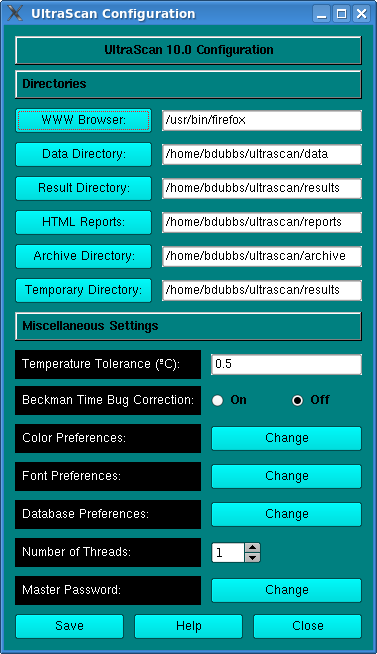
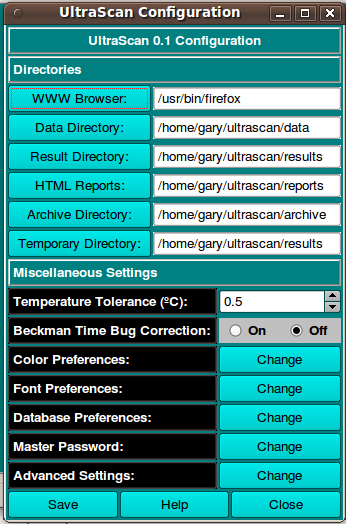
New advanced dialog in us_config and new us_settings methods for debug_text and advanced level
git-svn-id: svn://bcf2.uthscsa.edu/ultrascan3/trunk@506 0b344138-67e3-44e0-be2b-e1ba3e4701c6

diff --git a/programs/us_config/us_advanced.cpp b/programs/us_config/us_advanced.cpp
@@ -1,0 +1,152 @@
+//! \file us_advanced.cpp
+#include "us_advanced.h"
+#include "us_gui_settings.h"
+#include "us_settings.h"
+#include "us_help.h"
+
+US_Advanced::US_Advanced( QWidget* w, Qt::WindowFlags flags ) 
+  : US_Widgets( true, w, flags )
+{
+  // Frame layout
+  setPalette( US_GuiSettings::frameColor() );
+
+  setWindowTitle( "Advanced Settings" );
+  setAttribute( Qt::WA_DeleteOnClose );
+
+  // Set up the database list window
+  QLabel* banner = us_banner( tr( "Debug Text List" ) );
+
+  QBoxLayout* topbox = new QVBoxLayout( this );
+  topbox->addWidget( banner );
+  topbox->setSpacing( 2 );
+
+  te_dbgtext = new QTextEdit();
+  te_dbgtext->setPalette(  US_GuiSettings::editColor() );
+  te_dbgtext->setFont(     QFont( US_GuiSettings::fontFamily(),
+                                  US_GuiSettings::fontSize() ) );
+  te_dbgtext->setReadOnly( false );
+
+  topbox->addWidget( te_dbgtext );
+
+  // Detail info
+  QLabel* info = us_banner( tr( "Advanced Counters" ) );
+  topbox->addWidget( info );
+
+  int row = 0;
+  QGridLayout* details = new QGridLayout();
+  
+  // Row 1
+  QLabel* lb_debug    = us_label( "Debug Level:" );
+  details->addWidget( lb_debug,    row,   0, 1, 3 );
+
+  sb_debug            = new QSpinBox;
+  sb_debug->setRange( 0, 10 );
+  sb_debug->setValue( 0 );
+  sb_debug->setPalette( US_GuiSettings::editColor() );
+  sb_debug->setFont( QFont( US_GuiSettings::fontFamily(),
+                            US_GuiSettings::fontSize() ) );
+  details->addWidget( sb_debug,    row++, 3, 1, 1 );
+
+  // Row 2
+  QLabel* lb_advanced = us_label( "Advanced Level:" );
+  details->addWidget( lb_advanced, row,   0, 1, 3 );
+
+  sb_advanced         = new QSpinBox;
+  sb_advanced->setRange( 0, 10 );
+  sb_advanced->setValue( 0 );
+  sb_advanced->setPalette( US_GuiSettings::editColor() );
+  sb_advanced->setFont( QFont( US_GuiSettings::fontFamily(),
+                               US_GuiSettings::fontSize() ) );
+  details->addWidget( sb_advanced, row++, 3, 1, 1 );
+
+  // Row 3
+  QLabel* lb_threads  = us_label( "Number of Threads:" );
+  details->addWidget( lb_threads,  row,   0, 1, 3 );
+
+  sb_threads          = new QSpinBox;
+  sb_threads->setRange( 1, 10 );
+  sb_threads->setValue( 1 );
+  sb_threads->setPalette( US_GuiSettings::editColor() );
+  sb_threads->setFont( QFont( US_GuiSettings::fontFamily(),
+                              US_GuiSettings::fontSize() ) );
+  details->addWidget( sb_threads,  row++, 3, 1, 1 );
+
+  topbox->addLayout( details );
+
+  //Pushbuttons
+
+  row = 0;
+  QGridLayout* buttons = new QGridLayout();
+
+  pb_reset = us_pushbutton( tr( "Reset to Last Saved" ) );
+  connect( pb_reset, SIGNAL( clicked() ), this, SLOT( reset() ) );
+  buttons->addWidget( pb_reset, row++, 0, 1, 3 );
+
+  pb_save   = us_pushbutton( tr( "Save" ) );
+  connect( pb_save,  SIGNAL( clicked() ), this, SLOT( save() ) );
+  buttons->addWidget( pb_save,  row,   0, 1, 1 );
+
+  pb_help   = us_pushbutton( tr( "Help" ) );
+  connect( pb_help,  SIGNAL( clicked() ), this, SLOT( help() ) );
+  buttons->addWidget( pb_help,  row,   1, 1, 1 );
+
+  pb_close  = us_pushbutton( tr( "Close" ) );
+  connect( pb_close, SIGNAL( clicked() ), this, SLOT( close() ) );
+  buttons->addWidget( pb_close, row++, 2, 1, 1 );
+
+  topbox->addLayout( buttons );
+
+  reset();
+}
+
+// set values as they were at last save
+void US_Advanced::reset()
+{
+qDebug() << "RESET";
+   QStringList dbg_text  = US_Settings::debug_text();
+   int         dbg_level = US_Settings::us_debug();
+   int         adv_level = US_Settings::advanced_level();
+   int         threads   = US_Settings::threads();
+qDebug() << "dbg_level" << dbg_level;
+
+   QString dbg_str = "";
+
+   if ( dbg_text.size() > 0 )
+   {
+
+      for ( int ii = 0; ii < dbg_text.size() - 1; ii++ )
+         dbg_str += dbg_text.at( ii ) + "\n";
+
+      dbg_str += dbg_text.last();
+   }
+
+   te_dbgtext ->setPlainText(  dbg_str   );
+
+   sb_debug   ->setValue(      dbg_level );
+   sb_advanced->setValue(      adv_level );
+   sb_threads ->setValue(      threads   );
+}
+
+// save the values from the current GUI elements
+void US_Advanced::save()
+{
+   QStringList dbg_text  = te_dbgtext->toPlainText().split( "\n" );
+
+   for ( int ii = 0; ii < dbg_text.size(); ii++ )
+   {
+      dbg_text.replace( ii, dbg_text.at( ii ).simplified() );
+   }
+
+
+   US_Settings::set_debug_text(     dbg_text  );
+   US_Settings::set_us_debug(       sb_debug   ->value() );
+   US_Settings::set_advanced_level( sb_advanced->value() );
+   US_Settings::set_threads(        sb_threads ->value() );
+}
+
+void US_Advanced::help( void )
+{
+  US_Help* showhelp = new US_Help(this);
+  showhelp->show_help( "advanced_config.html" );
+}
+

diff --git a/programs/us_config/us_config.cpp b/programs/us_config/us_config.cpp
@@ -179,18 +179,6 @@ US_Config::US_Config( QWidget* parent, Qt::WindowFlags flags )
 
   otherSettings->addLayout( radiobutton, row++, 1 );
 
-  // us_debug
-  QLabel* lb_debug = us_label( "Debug value:" );
-  otherSettings->addWidget( lb_debug, row, 0 );
-
-  sb_debug = new QSpinBox();
-  sb_debug->setRange( 0, 5 );
-  sb_debug->setValue( US_Settings::us_debug() );
-  sb_debug->setPalette( US_GuiSettings::editColor() );
-  sb_debug->setFont( QFont( US_GuiSettings::fontFamily(), 
-                            US_GuiSettings::fontSize() ) );
-  otherSettings->addWidget( sb_debug, row++, 1 );
-
   // Color Preferences
   QLabel* color = us_label( "Color Preferences:" );
   otherSettings->addWidget( color, row, 0 );
@@ -215,19 +203,6 @@ US_Config::US_Config( QWidget* parent, Qt::WindowFlags flags )
   otherSettings->addWidget( pb_db, row++, 1 );
   connect( pb_db, SIGNAL( clicked() ), this, SLOT( update_db() ) );
 
-  // Number of Threads
-  QLabel* threads = us_label( "Number of Threads:" );
-  otherSettings->addWidget( threads, row, 0 );
-
-  // Use a spin box here
-  sb_threads = new QSpinBox();
-  sb_threads->setRange( 1, 64 );
-  sb_threads->setValue( US_Settings::threads() );
-  sb_threads->setPalette( US_GuiSettings::editColor() );
-  sb_threads->setFont( QFont( US_GuiSettings::fontFamily(), 
-                              US_GuiSettings::fontSize() ) );
-  otherSettings->addWidget( sb_threads, row++, 1 );
-
   // Master Password
   QLabel* password = us_label( "Master Password:" );
   otherSettings->addWidget( password, row, 0 );
@@ -235,6 +210,14 @@ US_Config::US_Config( QWidget* parent, Qt::WindowFlags flags )
   pb_password = us_pushbutton( tr( "Change" ) );
   otherSettings->addWidget( pb_password, row++, 1 );
   connect( pb_password, SIGNAL( clicked() ), this, SLOT( update_password() ) );
+
+  // Advanced settings
+  QLabel* advanced = us_label( "Advanced Settings:" );
+  otherSettings->addWidget( advanced, row, 0 );
+
+  pb_advanced = us_pushbutton( tr( "Change" ) );
+  otherSettings->addWidget( pb_advanced, row++, 1 );
+  connect( pb_advanced, SIGNAL( clicked() ), this, SLOT( update_advanced() ) );
 
   topbox->addLayout( otherSettings );
 
@@ -269,9 +252,7 @@ void US_Config::save( void )
    US_Settings::set_reportDir    ( le_reportDir  ->text()      );
    US_Settings::set_archiveDir   ( le_archiveDir ->text()      );
    US_Settings::set_tmpDir       ( le_tmpDir     ->text()      );
-   US_Settings::set_threads      ( sb_threads    ->value()     );
    US_Settings::set_beckmanBug   ( rb_on         ->isChecked() );
-   US_Settings::set_us_debug     ( sb_debug      ->value()     );
 
    QMessageBox::information( this,
          tr( "Settings Saved" ),
@@ -300,6 +281,12 @@ void US_Config::update_password( void )
 {
   admin = new US_Admin;  // Automatic delete
   admin->show();
+}
+
+void US_Config::update_advanced( void )
+{
+   advanced = new US_Advanced;
+   advanced->show();
 }
 
 void US_Config::open_browser( void )

diff --git a/utils/us_settings.cpp b/utils/us_settings.cpp
@@ -218,6 +218,43 @@ void US_Settings::set_us_debug( int level )
     settings.setValue( "us_debug", level );
 }
 
+// debug text
+QStringList US_Settings::debug_text( void )
+{
+  QSettings settings( "UTHSCSA", "UltraScan" );
+  return settings.value( "debug_text", "" ).toStringList();
+}
+
+bool US_Settings::debug_match( QString match )
+{
+  return debug_text().contains( match, Qt::CaseInsensitive );
+}
+
+void US_Settings::set_debug_text( QStringList debuglist )
+{
+  QSettings settings( "UTHSCSA", "UltraScan" );
+  if ( debuglist.count() == 0 )
+    settings.remove( "debug_text" );
+  else
+    settings.setValue( "debug_text", debuglist );
+}
+
+// advanced level
+int US_Settings::advanced_level( void )
+{
+  QSettings settings( "UTHSCSA", "UltraScan" );
+  return settings.value( "advanced_level", 0 ).toInt();
+}
+
+void US_Settings::set_advanced_level( int level )
+{
+  QSettings settings( "UTHSCSA", "UltraScan" );
+  if ( level == 0 )
+    settings.remove( "advanced_level" );
+  else
+    settings.setValue( "advanced_level", level );
+}
+
 // Threads
 int US_Settings::threads( void )
 {

diff --git a/programs/us_config/us_config.h b/programs/us_config/us_config.h
@@ -8,6 +8,7 @@
 #include "us_color.h"
 #include "us_font.h"
 #include "us_admin.h"
+#include "us_advanced.h"
 
 //! \brief Provide the top level window for user configuration
 
@@ -39,6 +40,7 @@ private:
   US_Font*        font;
   US_Color*       colors;
   US_Admin*       admin;
+  US_Advanced*    advanced;
                  
   QPushButton*    pb_help;
   QPushButton*    pb_save;
@@ -65,8 +67,6 @@ private:
   QPushButton*    pb_tmpDir;
   QLineEdit*      le_tmpDir;
                  
-  QSpinBox*       sb_threads;
-  QSpinBox*       sb_debug;
   QDoubleSpinBox* sb_temperature_tol;
   
   QRadioButton*   rb_on;
@@ -76,6 +76,7 @@ private:
   QPushButton*    pb_font;
   QPushButton*    pb_db;
   QPushButton*    pb_password;
+  QPushButton*    pb_advanced;
 
 
 private slots:
@@ -90,6 +91,7 @@ private slots:
   void update_font    ( void );
   void update_db      ( void );
   void update_password( void );
+  void update_advanced( void );
   void save           ( void );
   void help           ( void );
 };

diff --git a/utils/us_settings.h b/utils/us_settings.h
@@ -96,6 +96,18 @@ class US_EXTERN US_Settings
     //! \brief Set the US_Debug setting
     static void        set_us_debug( int );
 
+    //! \brief Get the Debug text setting as a string list
+    static QStringList debug_text(     void );
+    //! \brief Get a flag if given string matches any in debug text
+    static bool        debug_match(    QString );
+    //! \brief Set the Debug text setting as a string list
+    static void        set_debug_text( QStringList );
+
+    //! \brief Get the advanced level setting
+    static int         advanced_level( void );
+    //! \brief Set the advanced level setting
+    static void        set_advanced_level( int );
+
     //! \brief Get the number of threads to use for internal procesing
     static int         threads( void );
     //! \brief Set the number of threads to use for internal procesing.

diff --git a/programs/us_config/us_advanced.h b/programs/us_config/us_advanced.h
@@ -1,0 +1,39 @@
+//! \file us_advanced.h
+#ifndef US_ADVANCED_H
+#define US_ADVANCED_H
+
+#include <QtCore>
+
+#include "us_widgets.h"
+
+/*! \brief A class to allow the user to set, modify or delete
+    advanced parameters
+*/
+class US_Advanced : public US_Widgets
+{
+  Q_OBJECT
+  
+  public:
+    
+    //!  Construct the window to manage advanced parameters.
+    US_Advanced( QWidget* w = 0, Qt::WindowFlags flags = 0 );
+    
+  private:
+
+    QPushButton* pb_reset; 
+    QPushButton* pb_save;   
+    QPushButton* pb_help;
+    QPushButton* pb_close;
+
+    QSpinBox*    sb_debug;
+    QSpinBox*    sb_advanced;
+    QSpinBox*    sb_threads;
+
+    QTextEdit*   te_dbgtext;
+
+  private slots:
+    void save           ( void );
+    void help           ( void );
+    void reset          ( void );
+};
+#endif
